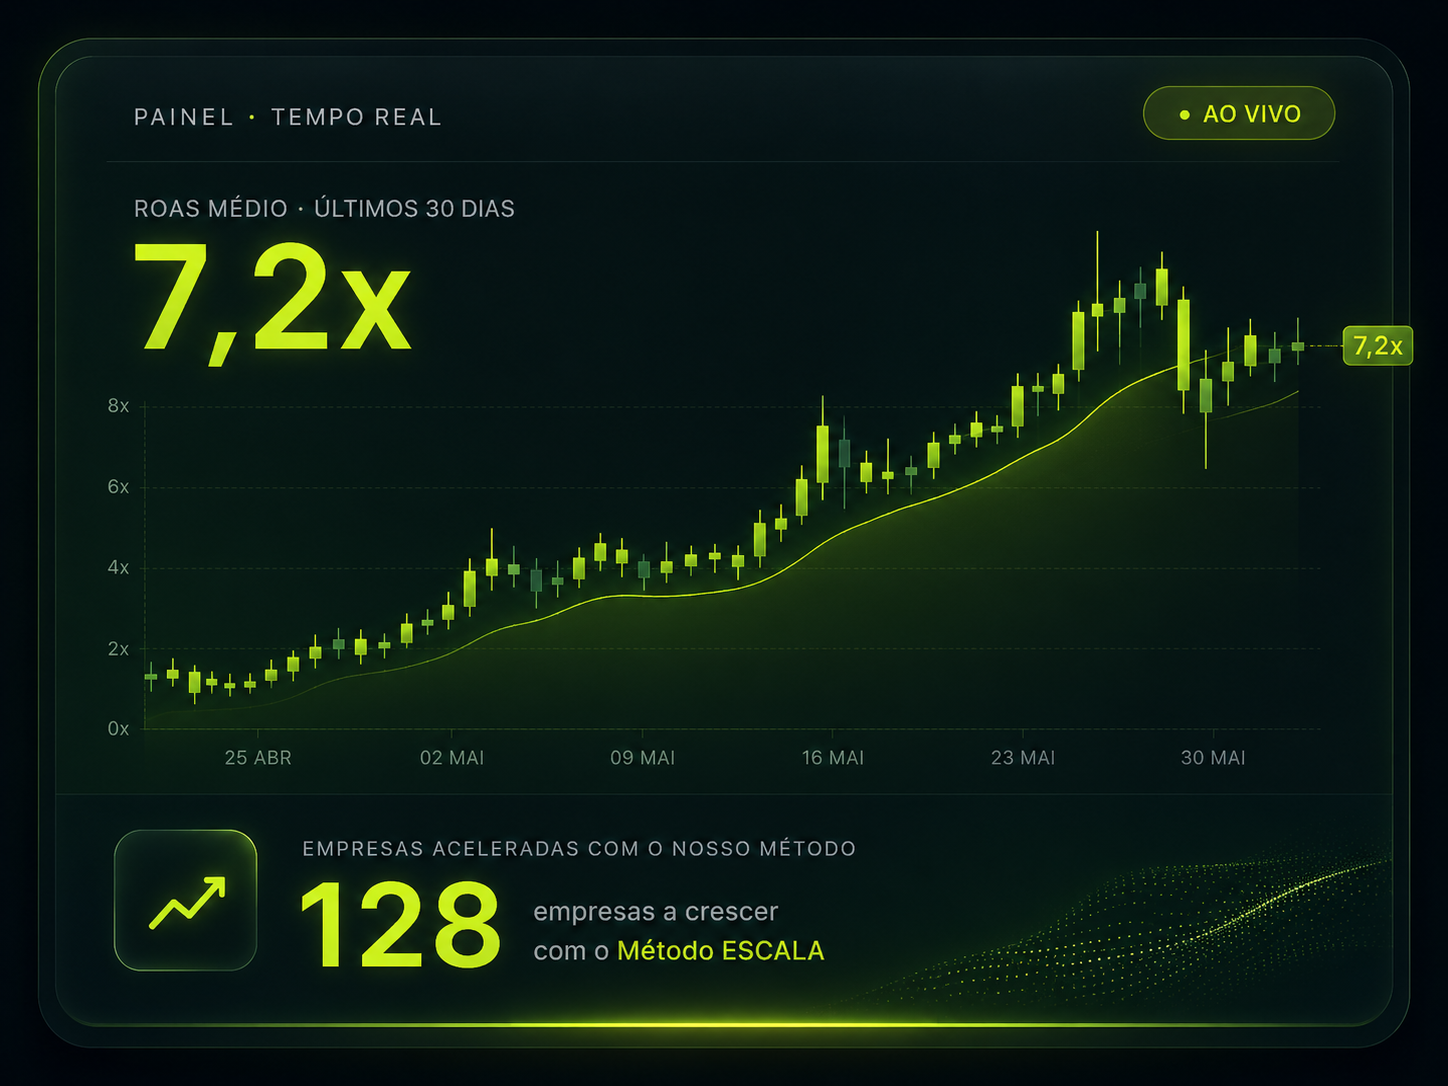
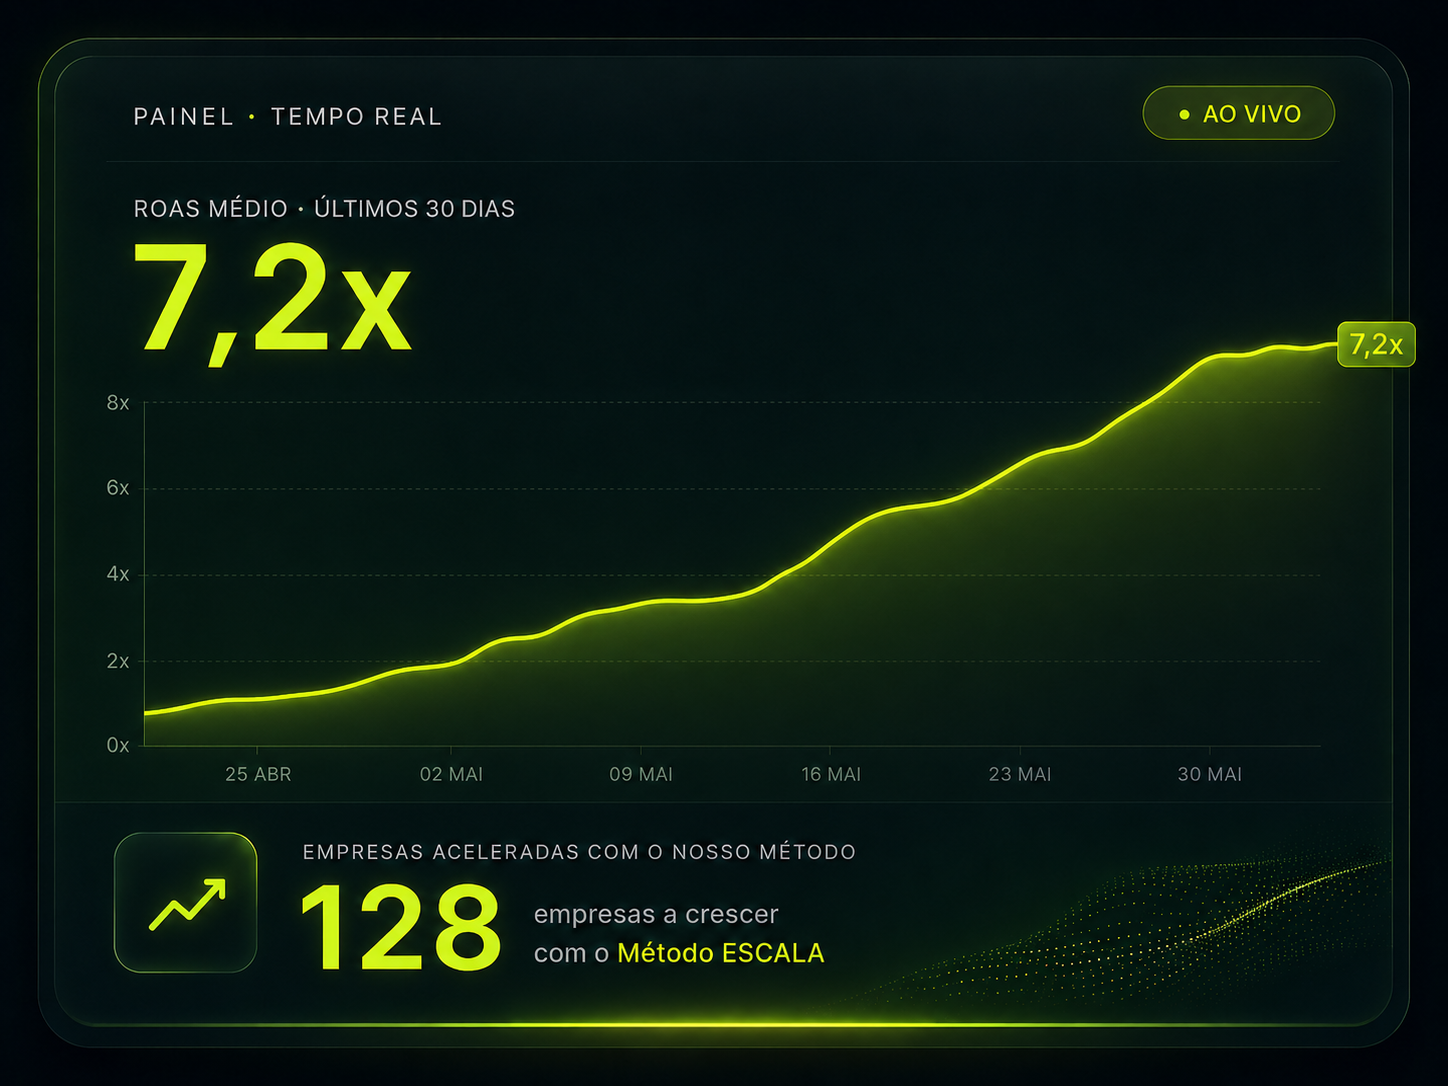
fix: update hero dashboard image and force CTA buttons side-by-side on mobile

diff --git a/src/components/Hero.jsx b/src/components/Hero.jsx
@@ -132,15 +132,16 @@ const CtaRow = styled.div`
   @media (max-width: 992px) { justify-content: flex-start; }
   @media (max-width: 768px) {
     gap: 10px;
-    flex-wrap: wrap;
+    flex-wrap: nowrap;
 
     a {
       flex: 1;
-      min-width: 140px;
+      min-width: 0;
       text-align: center;
       justify-content: center;
-      padding: 14px 16px;
-      font-size: 0.78rem;
+      padding: 14px 10px;
+      font-size: 0.72rem;
+      white-space: nowrap;
     }
   }
 `;
